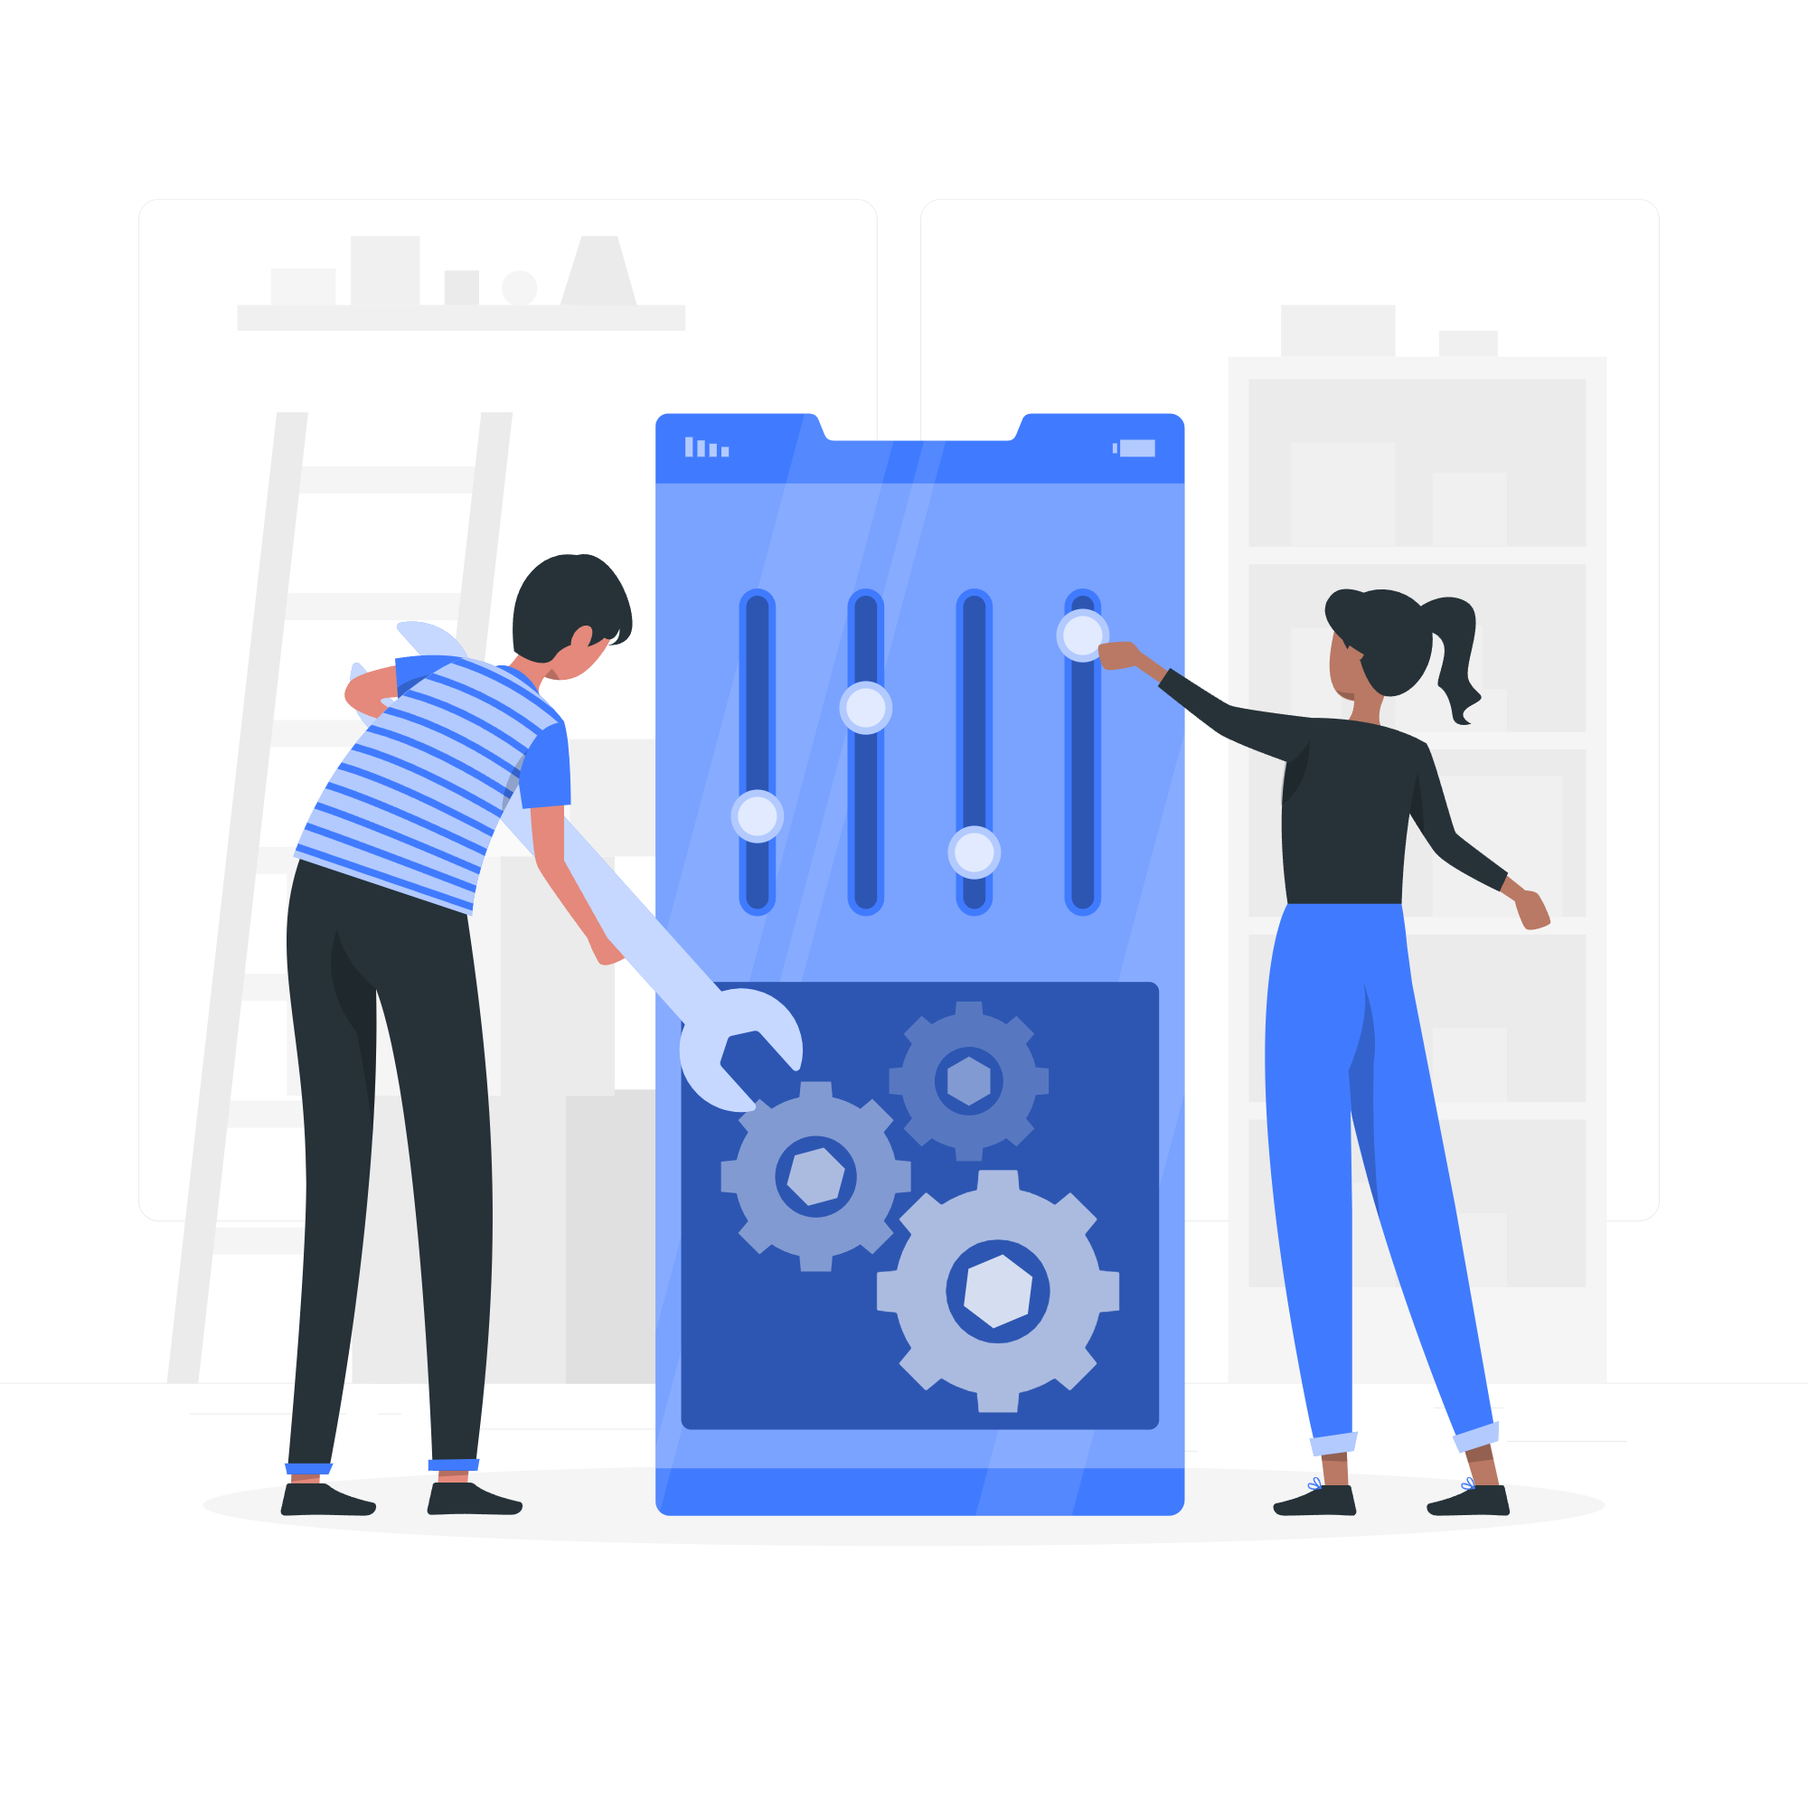
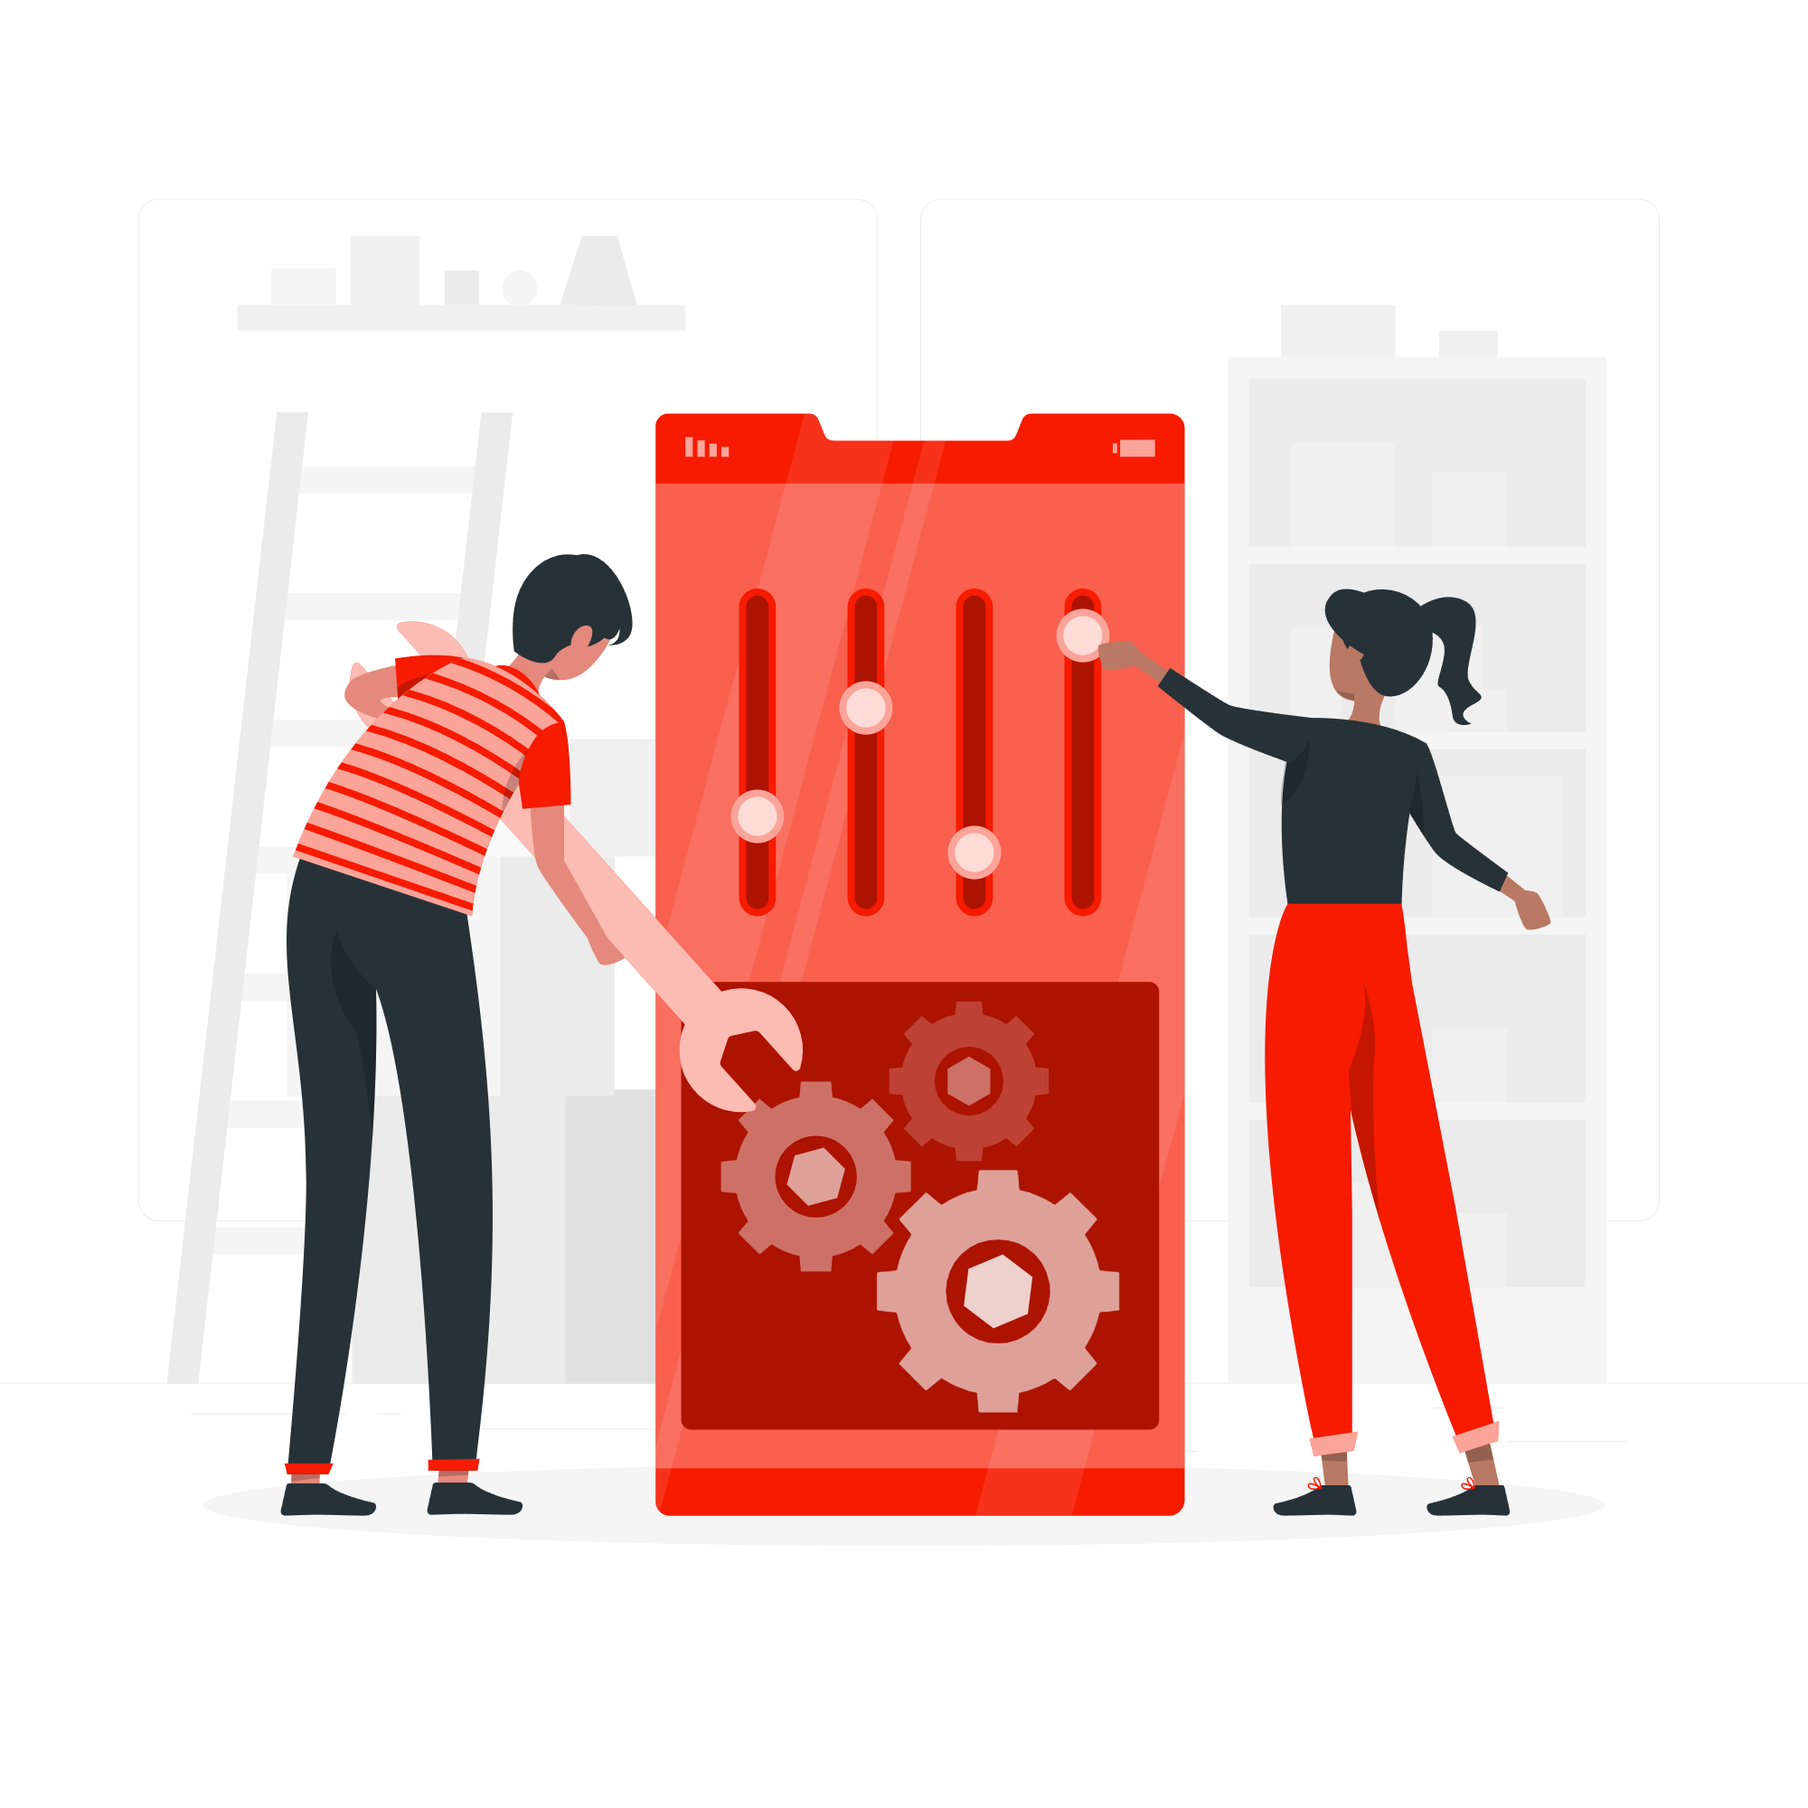
color change

Changed region(s): [[0.155, 0.217, 0.837, 0.837], [0.248, 0.806, 0.279, 0.837], [0.155, 0.806, 0.186, 0.837]]

diff --git a/src/index.css b/src/index.css
@@ -3,7 +3,7 @@
 @tailwind utilities;
 
 body{
-  background-color: hsla(180, 6%, 3%, 0.965);
+  background-color: hsla(0, 0%, 100%, 0.965);
 }
 
 
@@ -477,8 +477,8 @@ body{
 
 .menu-card {
   margin: 20px;
-  background-color: #020baa;
-  box-shadow: 0px 8px 28px -9px rgb(0, 0, 0);
+  background-color:rgb(6, 8, 45);
+  box-shadow: 0px 8px 28px -9px rgb(31, 30, 30);
   width: 240px;
   height: 630px;
   border-radius: 16px;
@@ -499,7 +499,7 @@ body{
   margin-bottom: 10px;
   margin: 20px;
   box-shadow: 0 4px 8px rgba(0, 0, 0, 0.5);
-  background-color: rgba(255, 255, 255, 0.856);
+  background-color:#DADBF3;
 }
 
 .menu-content .menu ul{
@@ -617,7 +617,7 @@ body{
   padding: 0px 50px;
   height: 60px;
   gap: 100px;
-  background-color: #ffffff;
+  background-color: #DADBF3;
   border-radius: 16px;
   width: 100;
 }
@@ -981,7 +981,7 @@ font-weight: 500;
 }
 
 .profile-card-front {
-  background-color:rgb(2, 11, 170);
+  background-color:rgb(6, 8, 45);
   display: flex;
   align-items: center;
   border-radius: 10px;
@@ -994,7 +994,7 @@ font-weight: 500;
 }
 
 .profile-card-back {
-  background-color: #000000;
+  background-color:rgb(6, 8, 45);
   display: flex;
   border-radius: 10px;
   align-items: center;
@@ -1078,7 +1078,7 @@ font-weight: 500;
 .sidebar{
   border-radius: 16px;
   margin-right: 5px;
-  background-color: #020aaaaf;
+  background-color:rgb(6, 8, 45);
   width: 230px;
   position: relative;
 }
@@ -1102,7 +1102,7 @@ width: 200px;
 }
 
 .black{
-  color: rgb(0, 0, 0);
+  color: rgb(215, 206, 206);
   font-size: 20px;
   text-shadow: 2px 2px 5px rgba(48, 24, 24, 0.48);
   font-weight: 900;
@@ -1223,7 +1223,7 @@ width: 960px;
 .content-section {
   width: 100%;
   height: 555px;
-  background-color:#020aaa;
+  background-color:rgb(6, 8, 45);
   border-top-right-radius: 16px;
   border-bottom-right-radius: 16px;
   color: #ffffff;
@@ -1410,7 +1410,7 @@ width: 960px;
 }
 
 .notification-container{
-  background-color:#020BAA;
+  background-color:rgb(6, 8, 45);
   border-radius: 16px;
   margin:20px 0;
   height: 550px;
@@ -1591,7 +1591,7 @@ gap: 30px;
 }
 
 .progress1 h3{
-  background-color: rgb(42, 42, 42);
+  background-color:rgb(6, 8, 45);
  width: 100%;
  color: white;
  padding: 10px;
@@ -1603,14 +1603,14 @@ gap: 30px;
 
 .progress1 .big{
   font-size: 40px;
-  background-color: rgb(42, 42, 42);
+  background-color:rgb(6, 8, 45);
   border-top-left-radius: 6px;
   border-bottom-left-radius: 6px;
   padding-left: 20px;
 }
 
 .progress1 form{
-  background-color: rgb(42, 42, 42);
+  background-color:rgb(6, 8, 45);
   width: 100%;
   padding: 10px;
   padding-left: 30px;
@@ -1638,7 +1638,7 @@ gap: 30px;
 
 
 .progress-menu li.active {
-  background-color: black;
+  background-color:rgb(6, 8, 45);
   color: white; 
 }
 
@@ -1656,11 +1656,11 @@ display: flex;
   font-weight: 400;
   color: hsl(132, 100%, 1%);
   border-radius: 10px;
-  background-color: #ff0000ee;
+  background-color: #F61B01; 
 }
   
 .chart {
-  background-color: #0b0b0b;
+  background-color:rgb(6, 8, 45);
   padding: 20px;
   box-shadow: 0px 4px 6px rgba(0, 0, 0, 0.509);
   border-radius: 8px;

diff --git a/src/pages/Chatbox.js b/src/pages/Chatbox.js
@@ -99,7 +99,7 @@ const ChatBox = () => {
     <div className="chatbox-container flex">
       {/* Sidebar for Recent Conversations */}
       <button
-        className="sidebar-toggle-button bg-red-600 "
+        className="sidebar-toggle-button bg-[#F61B01]  "
         onClick={handleToggleSidebar}
       >
         ☰ {/* Hamburger icon */}
@@ -111,7 +111,7 @@ const ChatBox = () => {
           <h2>Recent Conversations</h2>
           <div className="space-y-3">
             {history.length === 0 ? (
-              <p >No recent conversations</p>
+              <p className="text-white">No recent conversations</p>
             ) : (
               history.map((item, index) => (
                 <div
@@ -168,7 +168,7 @@ const ChatBox = () => {
             </div>
           ) : (
             selectedConversation && (
-              <div className="bg-[#020BAA] rounded-lg p-3 text-white">
+              <div className="bg-[#06082D] rounded-lg p-3 text-white">
                 {selectedConversation.response}
               </div>
             )
@@ -187,7 +187,7 @@ const ChatBox = () => {
               onKeyDown={(e) => e.key === "Enter" && handleSend()}
             />
             <button
-              className="rounded-md  px-5 z-30 p-2 bg-blue-500  text-white relative font-semibold after:-z-20 after:absolute after:h-1 after:w-1 after:bg-blue-800 after:left-5 overflow-hidden after:bottom-0 after:translate-y-full after:rounded-md after:hover:scale-[300] after:hover:transition-all after:hover:duration-700 after:transition-all after:duration-700 transition-all duration-700 [text-shadow:3px_5px_2px_#0a66c2] hover:[text-shadow:2px_2px_2px_#fda4af] "
+              className="rounded-md  px-5 z-30 p-2 bg-[#F61B01]   text-white relative font-semibold after:-z-20 after:absolute after:h-1 after:w-1 after:bg-red-800 after:left-5 overflow-hidden after:bottom-0 after:translate-y-full after:rounded-md after:hover:scale-[300] after:hover:transition-all after:hover:duration-700 after:transition-all after:duration-700 transition-all duration-700  hover:[text-shadow:2px_2px_2px_#fda4af] "
               onClick={handleSend}
             >
               Send

diff --git a/src/components/DeleteAccount.js b/src/components/DeleteAccount.js
@@ -78,7 +78,7 @@ const DeleteAccount = () => {
           {error && <p style={{ color: 'red' }}>{error}</p>}
           
         <Link to="/login" >
-        <button type="submit" className= "w-22 mt-5 px-5 z-30 py-2 bg-red-500 rounded-md text-white relative font-semibold after:-z-20 after:absolute after:h-1 after:w-1 after:bg-red-800 after:left-5 overflow-hidden after:bottom-0 after:translate-y-full after:rounded-md after:hover:scale-[300] after:hover:transition-all after:hover:duration-700 after:transition-all after:duration-700 transition-all duration-700 [text-shadow:3px_5px_2px_#fda4af] hover:[text-shadow:2px_2px_2px_#fda4af] ">Delete Account</button>
+        <button type="submit" className= "w-22 mt-5 px-5 z-30 py-2 bg-[#F61B01]  rounded-md text-white relative font-semibold after:-z-20 after:absolute after:h-1 after:w-1 after:bg-red-800 after:left-5 overflow-hidden after:bottom-0 after:translate-y-full after:rounded-md after:hover:scale-[300] after:hover:transition-all after:hover:duration-700 after:transition-all after:duration-700 transition-all duration-700  hover:[text-shadow:2px_2px_2px_#fda4af] ">Delete Account</button>
         </Link>
           
         </form>

diff --git a/src/components/Password.js b/src/components/Password.js
@@ -104,7 +104,7 @@ const Password = () => {
           </label>
 
           {/* Save Changes Button */}
-          <button type="submit" className=" mb-2 px-6 z-30 py-2 bg-blue-500 rounded-md text-white relative font-semibold after:-z-20 after:absolute after:h-1 after:w-1 after:bg-blue-800 after:left-5 overflow-hidden after:bottom-0 after:translate-y-full after:rounded-md after:hover:scale-[300] after:hover:transition-all after:hover:duration-700 after:transition-all after:duration-700 transition-all duration-700 [text-shadow:3px_5px_2px_#0a66c2] hover:[text-shadow:2px_2px_2px_#fda4af] ">Save Changes</button>
+          <button type="submit" className=" mb-2 px-6 z-30 py-2 bg-[#F61B01] rounded-md text-white relative font-semibold after:-z-20 after:absolute after:h-1 after:w-1 after:bg-red-800 after:left-5 overflow-hidden after:bottom-0 after:translate-y-full after:rounded-md after:hover:scale-[300] after:hover:transition-all after:hover:duration-700 after:transition-all after:duration-700 transition-all duration-700 [text-shadow:3px_5px_2px_fda4af] hover:[text-shadow:2px_2px_2px_#fda4af] ">Save Changes</button>
         </form>
       </div>
     </>

diff --git a/src/components/SecuritySettings.js b/src/components/SecuritySettings.js
@@ -61,7 +61,7 @@ const AuthenticationPage = () => {
           required
         />
 
-        <button type="submit" className=" mt-20 px-6 z-30 py-2 bg-blue-500 rounded-md text-white relative font-semibold after:-z-20 after:absolute after:h-1 after:w-1 after:bg-blue-800 after:left-5 overflow-hidden after:bottom-0 after:translate-y-full after:rounded-md after:hover:scale-[300] after:hover:transition-all after:hover:duration-700 after:transition-all after:duration-700 transition-all duration-700 [text-shadow:3px_5px_2px_#0a66c2] hover:[text-shadow:2px_2px_2px_#fda4af] ">Verify and Sign In</button>
+        <button type="submit" className=" mt-20 px-6 z-30 py-2 bg-[#F61B01]  rounded-md text-white relative font-semibold after:-z-20 after:absolute after:h-1 after:w-1 after:bg-red-800 after:left-5 overflow-hidden after:bottom-0 after:translate-y-full after:rounded-md after:hover:scale-[300] after:hover:transition-all after:hover:duration-700 after:transition-all after:duration-700 transition-all duration-700 hover:[text-shadow:2px_2px_2px_#fda4af] ">Verify and Sign In</button>
       </form>
     </div>
     </>

diff --git a/src/pages/Notifications.js b/src/pages/Notifications.js
@@ -137,7 +137,7 @@ export default function ()  {
 
  
 
-  <button type="submit" className= "w-22 mt-14 ml-24 px-5 z-30 py-2 bg-red-500 rounded-md text-white relative font-semibold after:-z-20 after:absolute after:h-1 after:w-1 after:bg-red-800 after:left-5 overflow-hidden after:bottom-0 after:translate-y-full after:rounded-md after:hover:scale-[300] after:hover:transition-all after:hover:duration-700 after:transition-all after:duration-700 transition-all duration-700 [text-shadow:3px_5px_2px_#fda4af] hover:[text-shadow:2px_2px_2px_#fda4af] ">Save Changes</button>
+  <button type="submit" className= "w-22 mt-14 ml-24 px-5 z-30 py-2 bg-[#F61B01]  rounded-md text-white relative font-semibold after:-z-20 after:absolute after:h-1 after:w-1 after:bg-red-800 after:left-5 overflow-hidden after:bottom-0 after:translate-y-full after:rounded-md after:hover:scale-[300] after:hover:transition-all after:hover:duration-700 after:transition-all after:duration-700 transition-all duration-700  hover:[text-shadow:2px_2px_2px_#fda4af] ">Save Changes</button>
 
 </form>
 

diff --git a/src/components/ProfileBack.js b/src/components/ProfileBack.js
@@ -68,7 +68,7 @@ export default function ProfileBack () {
         
         />
         <button type="submit"
-  class=" mt-7 px-6 z-30 py-2 bg-blue-500 rounded-md text-white relative font-semibold after:-z-20 after:absolute after:h-1 after:w-1 after:bg-blue-800 after:left-5 overflow-hidden after:bottom-0 after:translate-y-full after:rounded-md after:hover:scale-[300] after:hover:transition-all after:hover:duration-700 after:transition-all after:duration-700 transition-all duration-700 [text-shadow:3px_5px_2px_#0a66c2] hover:[text-shadow:2px_2px_2px_#fda4af] "
+  class=" mt-7 px-6 z-30 py-2 bg-[#F61B01] rounded-md text-white relative font-semibold after:-z-20 after:absolute after:h-1 after:w-1 after:bg-red-800 after:left-5 overflow-hidden after:bottom-0 after:translate-y-full after:rounded-md after:hover:scale-[300] after:hover:transition-all after:hover:duration-700 after:transition-all after:duration-700 transition-all duration-700 hover:[text-shadow:2px_2px_2px_#fda4af] "
 >
   Save changes
 </button>

diff --git a/src/components/ProfileSettings.js b/src/components/ProfileSettings.js
@@ -61,7 +61,7 @@ const ProfileSettings = () => {
  
 
 <button type="submit"
-  className=" mb-2 px-6 z-30 py-2 bg-blue-500 rounded-md text-white relative font-semibold after:-z-20 after:absolute after:h-1 after:w-1 after:bg-blue-800 after:left-5 overflow-hidden after:bottom-0 after:translate-y-full after:rounded-md after:hover:scale-[300] after:hover:transition-all after:hover:duration-700 after:transition-all after:duration-700 transition-all duration-700 [text-shadow:3px_5px_2px_#0a66c2] hover:[text-shadow:2px_2px_2px_#fda4af] "
+  className=" mb-2 px-6 z-30 py-2 bg-[#F61B01]  rounded-md text-white relative font-semibold after:-z-20 after:absolute after:h-1 after:w-1 after:bg-red-800 after:left-5 overflow-hidden after:bottom-0 after:translate-y-full after:rounded-md after:hover:scale-[300] after:hover:transition-all after:hover:duration-700 after:transition-all after:duration-700 transition-all duration-700 hover:[text-shadow:2px_2px_2px_#fda4af] "
 >
   Save changes
 </button>

diff --git a/src/pages/Reward.css b/src/pages/Reward.css
@@ -1,12 +1,14 @@
 
 .reward{  
    display: flex;
+   background-color:rgb(6, 8, 45);
+   height: 100vh;
 }
 
 p .red{
   font-weight: 700;
   opacity: 1;
-  background: linear-gradient(-45deg, #f89b29 0%, #ff0f7b 100% );
+  background: linear-gradient(-45deg, #29a9f8 0%, #fa0000 100% );
   background-clip: text;
   -webkit-background-clip: text;
   -webkit-text-fill-color: transparent;
@@ -16,7 +18,7 @@ p .red{
 h3 .red{
   font-weight: 700;
   opacity: 1;
-  background: linear-gradient(-45deg, #f89b29 0%, #ff0f7b 100% );
+  background: linear-gradient(-45deg, #29a9f8 0%, #fa0000 100% );
   background-clip: text;
   -webkit-background-clip: text;
   -webkit-text-fill-color: transparent;
@@ -51,7 +53,7 @@ h3 .red{
 
 .reward h2{
   font-size: 3rem;
-  color: #004ff9;
+  color: #fd5e5e;
   font-weight: 600;
   margin-top: 165px;
   margin-left: 70px;

diff --git a/src/pages/Progress.js b/src/pages/Progress.js
@@ -19,7 +19,7 @@ import "../index.css";
 import Reward from "../pages/Reward";
 
 export default function Progress() {
-  const [activeTab, setActiveTab] = useState("timeSpent");
+  const [activeTab, setActiveTab] = useState("weekSpent");
 
   const handleTabChange = (tabName) => {
     setActiveTab(tabName);
@@ -150,7 +150,7 @@ export default function Progress() {
 
               <h3>
                 You unlocked your 1-day streak goal! Check out your{" "}
-                <Link to="/reward" className="text-red-600 hover:text-blue-400">
+                <Link to="/reward" className="text-[#F61B01]  hover:text-blue-400">
                   reward
                 </Link>
               </h3>

diff --git a/src/components/TimeSpent.js b/src/components/TimeSpent.js
@@ -42,7 +42,7 @@ const TimeSpent = () => {
     datasets: [
       {
         data: [timeSpend, remainingTime],
-        backgroundColor: [getColorForMinute(timeSpend), 'rgb(2, 11, 170)'],
+        backgroundColor: [getColorForMinute(timeSpend), '#F61B01 '],
         borderWidth: 1,
       },
     ],
